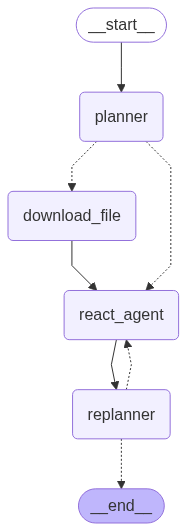
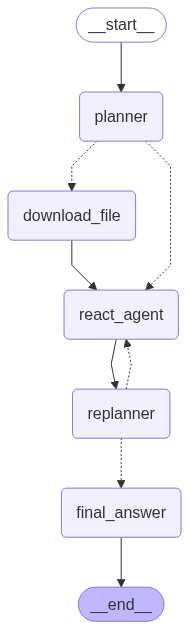
add final answer node

Changed region(s): [[0.0267, 0.0, 0.9626, 0.9944], [0.5348, 0.3917, 0.6417, 0.4218]]

diff --git a/src/agent/actors.py b/src/agent/actors.py
@@ -1,14 +1,14 @@
-from langchain_core.prompts import ChatPromptTemplate
+from langchain_core.prompts import ChatPromptTemplate, PromptTemplate
 from langchain_groq import ChatGroq
 from langchain_openai import ChatOpenAI
 from langgraph.prebuilt import create_react_agent
 from .tools import wikipedia_search_tool, tavily_search_tool, audio_2_text, read_image
-from .models import Plan, Act
+from .models import Plan, Act, FinalAnswer
 import os
 
-###########
+#################################
 #  Planner
-###########
+#################################
 planner_prompt = ChatPromptTemplate.from_messages(
     [
         (
@@ -24,9 +24,9 @@ planner_model = planner_prompt | ChatOpenAI( # The pipe operator chains the prom
     model="gpt-4o", temperature=0.4
 ).with_structured_output(Plan)
 
-###########
+#################################
 #  Executor
-###########
+#################################
 llm = ChatGroq(
     api_key=os.getenv('GROQ_API_KEY'),
     model="deepseek-r1-distill-llama-70b",
@@ -41,9 +41,17 @@ tools = [wikipedia_search_tool, tavily_search_tool, audio_2_text, read_image]
 executor_prompt = "You are a helpful assistant."
 executor_model = create_react_agent(llm, tools, prompt=executor_prompt)
 
-###########
+task_prompt_template = PromptTemplate(
+    input_variables=["plan_str", "task", "task_id"],
+    template="""For the following plan:
+{plan_str}
+
+You are tasked with executing step 1, {task}. (task_id: {task_id})"""
+)
+
+#################################
 #  Replanner
-###########
+#################################
 replanner_prompt = ChatPromptTemplate.from_template(
     """For the given objective, come up with a simple step by step plan. \
 This plan should involve individual tasks, that if executed correctly will yield the correct answer. Do not add any superfluous steps. \
@@ -61,11 +69,39 @@ You have currently done the follow steps:
 You must decide whether to return to the user or continue seeking the solution.
 
 If you need more steps, then adjust the plan accordingly and respond with action Plan.
-If no more steps are needed and you can return to the user, then create an answer and respond with action: Respond.
-
-The answer must be crisp, clear and use proper grammar, with sentence case. If asked a number, return the number. If asked a translation, return the translation. If asked a list, return the list. Make no additional comments, greetings or explanations."""
+If no more steps are needed and you can return to the user, then create an answer and respond with action: Respond."""
 )
 
 replanner_model = replanner_prompt | ChatOpenAI(
     model="gpt-4o", temperature=0
 ).with_structured_output(Act)
+
+#################################
+#  Final Answer
+#################################
+final_answer_prompt = ChatPromptTemplate.from_template(
+    """You are a helpful assistant. You are given a question and an answer. You must return the final answer to the question.
+    The final answer must be crisp, clear and use proper grammar, with sentence case. If asked a value, return the value. If asked a list, return the list. Make no additional comments, greetings or explanations.
+    For example:
+
+    Question: what is the opposite of up?
+    Answer: The opposite of up is down.
+    Final Answer: Down
+
+    Question: Hi friend, how are you?
+    Answer: I am fine. Thank you for asking.
+    Final Answer: Fine
+
+    Question: Hey there, your turn. What's the best move?
+    Answer: The optimal move in this position it Re6.
+    Final Answer: Re6
+
+    Your turn:
+    Question: {question}
+    Answer: {answer}
+    Final Answer: """
+)
+
+final_answer_model = final_answer_prompt | ChatOpenAI(
+    model="gpt-4o", temperature=0
+).with_structured_output(FinalAnswer)

diff --git a/src/agent/graph.py b/src/agent/graph.py
@@ -1,6 +1,6 @@
 from langgraph.graph import END, START, StateGraph
 from .models import AgentState, Response
-from .actors import executor_model, planner_model, replanner_model
+from .actors import executor_model, planner_model, replanner_model, task_prompt_template, final_answer_model
 from .tools import download_file_tool
 from .util import save_graph
 
@@ -22,10 +22,15 @@ def execute_step(state: AgentState) -> AgentState:
   task = plan[0]
   
   # Base prompt
-  prompt_task_formatted = f"""For the following plan:\n{plan_str}\n\nYou are tasked with executing step {1}, {task}. (task_id: {state["task_id"]})"""
+  prompt_task_formatted = task_prompt_template.invoke({
+      "plan_str": plan_str,
+      "task": task,
+      "task_id": state["task_id"]
+  }).text
   
   # Add filepath if file exists
-  prompt_task_formatted += f"\n\nFile available at: {state['attachment']}"
+  if state["has_file"] and state["attachment"]:
+    prompt_task_formatted += f"\n\nFile available at: {state['attachment']}"
   
   # "create_react_agent" works with a messages state by default
   response = executor_model.invoke({"messages": [("user", prompt_task_formatted)]})
@@ -47,10 +52,13 @@ def should_download(state: AgentState):
 
 def should_end(state: AgentState):
   if "answer" in state and state["answer"]:
-      return END
+      return "final_answer"
   else:
       return "react_agent"
 
+def create_final_answer(state: AgentState):
+  final_answer = final_answer_model.invoke({"question": state["question"], "answer": state["answer"]})
+  return {"answer": final_answer.answer}
 
 def build_graph() -> StateGraph:
   # instantiate graph builder with state
@@ -66,13 +74,15 @@ def build_graph() -> StateGraph:
   workflow.add_edge('download_file', 'react_agent')
   workflow.add_node('react_agent', execute_step)
   workflow.add_node('replanner', replan_step)
+  workflow.add_node('final_answer', create_final_answer)
   workflow.add_edge(START, 'planner')
   workflow.add_edge('react_agent', 'replanner')
   workflow.add_conditional_edges(
     "replanner",
     should_end,
-    ["react_agent", END],
-)
+    ["react_agent", "final_answer"],
+  )
+  workflow.add_edge('final_answer', END)
 
   # compile graph. generate png image. store in current directory
   graph = workflow.compile()

diff --git a/src/agent/models.py b/src/agent/models.py
@@ -33,3 +33,9 @@ class Act(BaseModel):
         description="Action to perform. If you want to respond to user, use Response. "
         "If you need to further use tools to get the answer, use Plan."
     )
+
+class FinalAnswer(BaseModel):
+    """Final answer to the question."""
+    answer: str = Field(
+        description="The final answer to the question"
+    )
